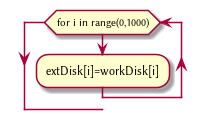
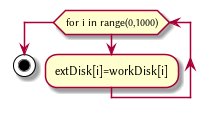
Finsih disk   for now

diff --git a/Disk.h b/Disk.h
@@ -11,7 +11,7 @@
 /*}}}*/
 
 
-int Disk_Init(disk(Disk) ){ // Setup the disk
+int Disk_Init(disk(Disk) ){ // Setup the disk{{{
 	// Set each sector 0
 	for(int i=0; i<SectorNum; i++){ 
 		Disk[i]=0;
@@ -35,6 +35,19 @@ int Disk_Init(disk(Disk) ){ // Setup the disk
 	
 	return 0;
 
+}/*}}}*/
+
+// Save and load functions{{{
+int Disk_Load(){ // workDisk->extDisk
+	for(int i=0; i<SectorNum; i++ )
+		ExtDisk[i]=WorkDisk[i];
+	return 0;
 }
+
+int Disk_Save(){ // extDisk->workDisk
+	for(int i=0; i<SectorNum; i++ )
+		WorkDisk[i]=ExtDisk[i];
+	return 0;
+}/*}}}*/
 
 #endif

diff --git a/FS.h b/FS.h
@@ -43,7 +43,7 @@ int FS_Boot(){
 	// External is not made. As such, set the sueprblock to a number.
 	ExtDisk[0]=SBNum;
 	Disk_Init(ExtDisk);
-	Disk_Init(WorkDisk);
+	Disk_Load();
 	return 0;
 } /*}}}*/
 
